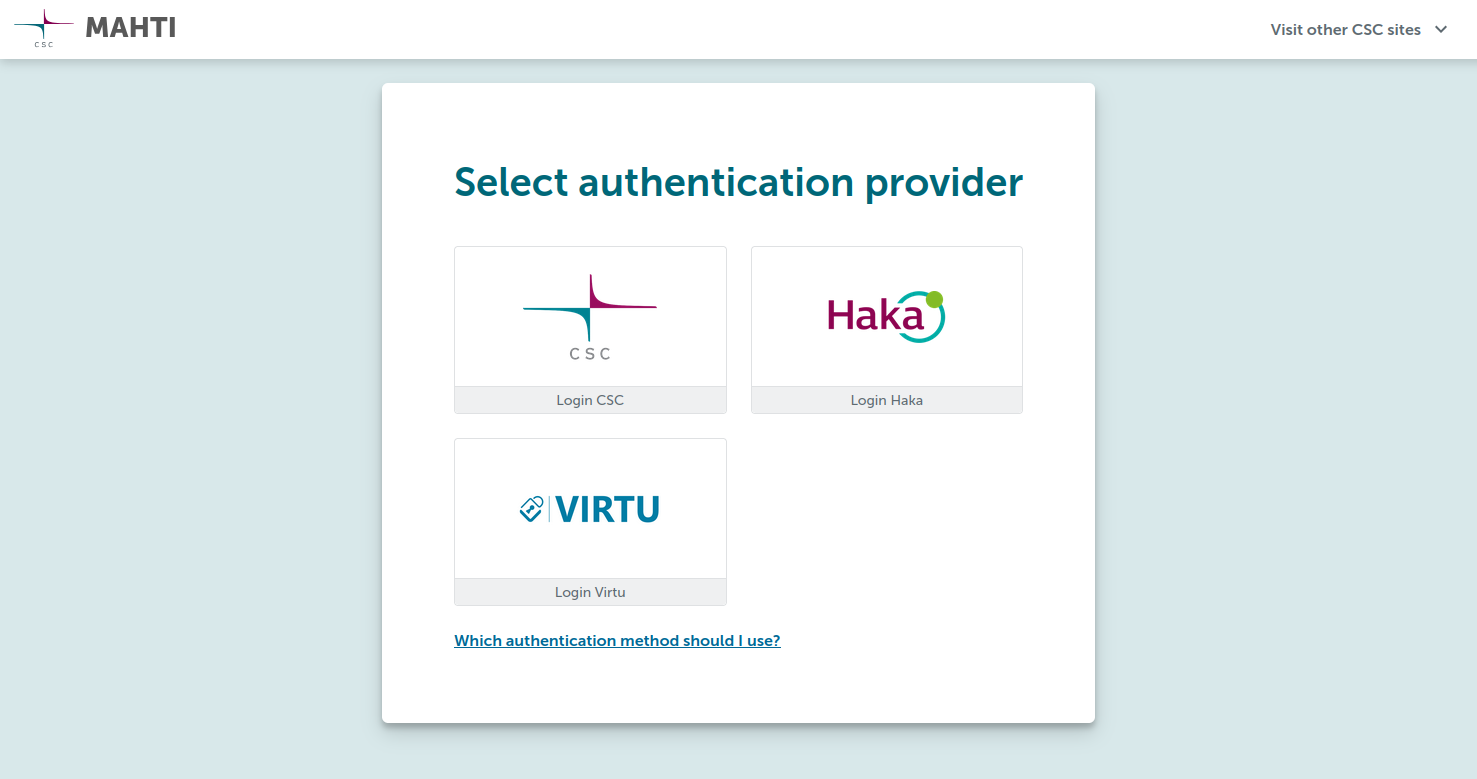
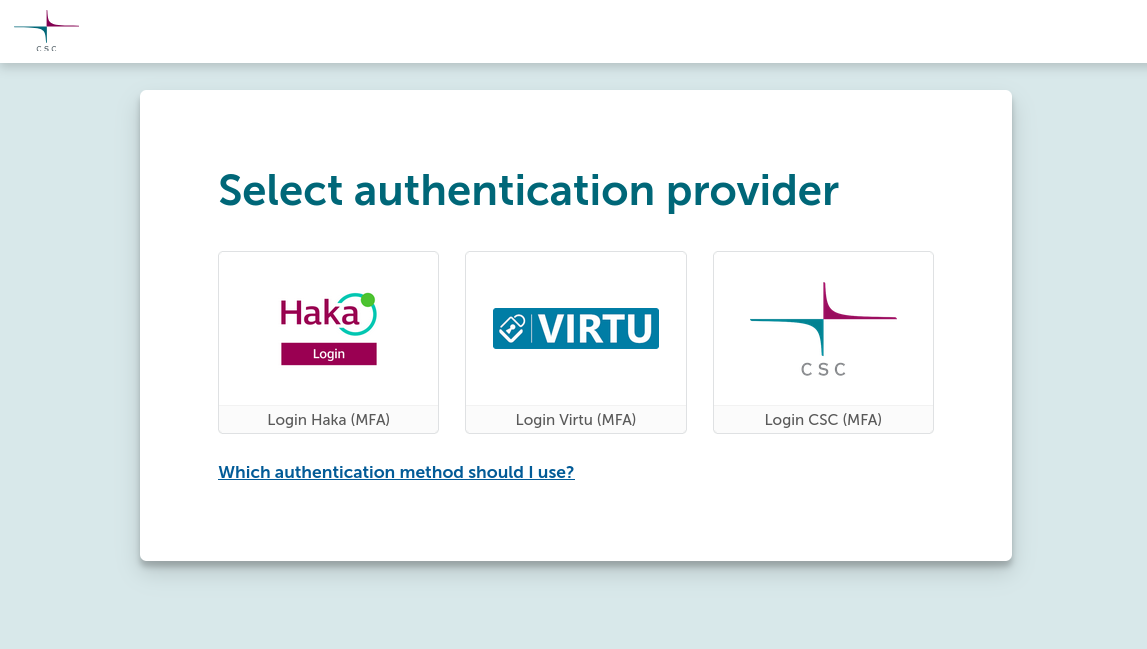
Add changes for www-Puhti R29 and www-Mahti R14

diff --git a/docs/computing/webinterface/matlab.md b/docs/computing/webinterface/matlab.md
@@ -1,10 +1,13 @@
 # MATLAB
 
-The app will start a MATLAB session on Puhti with the specified resources.
-Currently, only the R2023b release with Parallel Computing and Compiler SDK toolboxes is installed.
+The app will start a MATLAB session  with the specified resources.
+On Puhti, the version can be selected from any of the supported modules, and on Mahti, version R2024b is used.
 
-In addition to computing resources, partition and project, there is an **optional** "License file" field.
-With it you can specify path to your own home organisation's license server to obtain MATLAB license
-from there instead. This option is useful, for example, in situations where all CSC's MATLAB licences are already reserved.
+![MATLAB form options](../../img/ood_matlab_form.png){ with="400" }
 
-For documentation on using MATLAB, see the [MATLAB documentation](../../apps/matlab.md).
+The MATLAB app on Puhti allows you to use your CSC license. On Mahti, or if the CSC license is not
+selected on Puhti, you will need to log in with your MathWorks account to use your own license.
+
+![MATLAB form options](../../img/ood_matlab_license.png)
+
+For documentation on using MATLAB and details of available versions, see the [MATLAB documentation](../../apps/matlab.md).

diff --git a/docs/support/wn/comp-new.md b/docs/support/wn/comp-new.md
@@ -1,5 +1,17 @@
 # Computing environment
 
+## Puhti and Mahti web interfaces updated to release 29 and 14, 2.10.2025
+
+* CPU, GPU, storage and cloud billing units are now visible in the web interfaces.
+* The login method will no longer default to Haka login and can instead be freely selected.
+* MATLAB has been added to Mahti, but requires a license.
+* MATLAB version selection has been added to Puhti.
+* MATLAB on Puhti now allows using non-CSC licenses from your MathWorks account.
+* VSCode updated to 1.104.1.
+* TurboVNC updated to 3.2 in the Desktop app.
+* Rclone updated to 1.71.1
+* Open OnDemand updated to 4.0.7.
+
 ## Puhti and Mahti web interfaces updated to release 28 and 13, 19.8.2025
 
 * Rclone updated to 1.70.3

diff --git a/docs/computing/webinterface/index.md b/docs/computing/webinterface/index.md
@@ -46,6 +46,7 @@ Please note that logging in to Puhti and Mahti web interfaces requires
         - Jupyter
         - Jupyter for courses: An interactive Jupyter session specifically for
           courses
+        - MATLAB
         - MLflow
         - RStudio
         - TensorBoard
@@ -56,7 +57,6 @@ Please note that logging in to Puhti and Mahti web interfaces requires
         - COMSOL
         - ParaView
         - VMD
-    - MATLAB
 
 ### Shell
 
